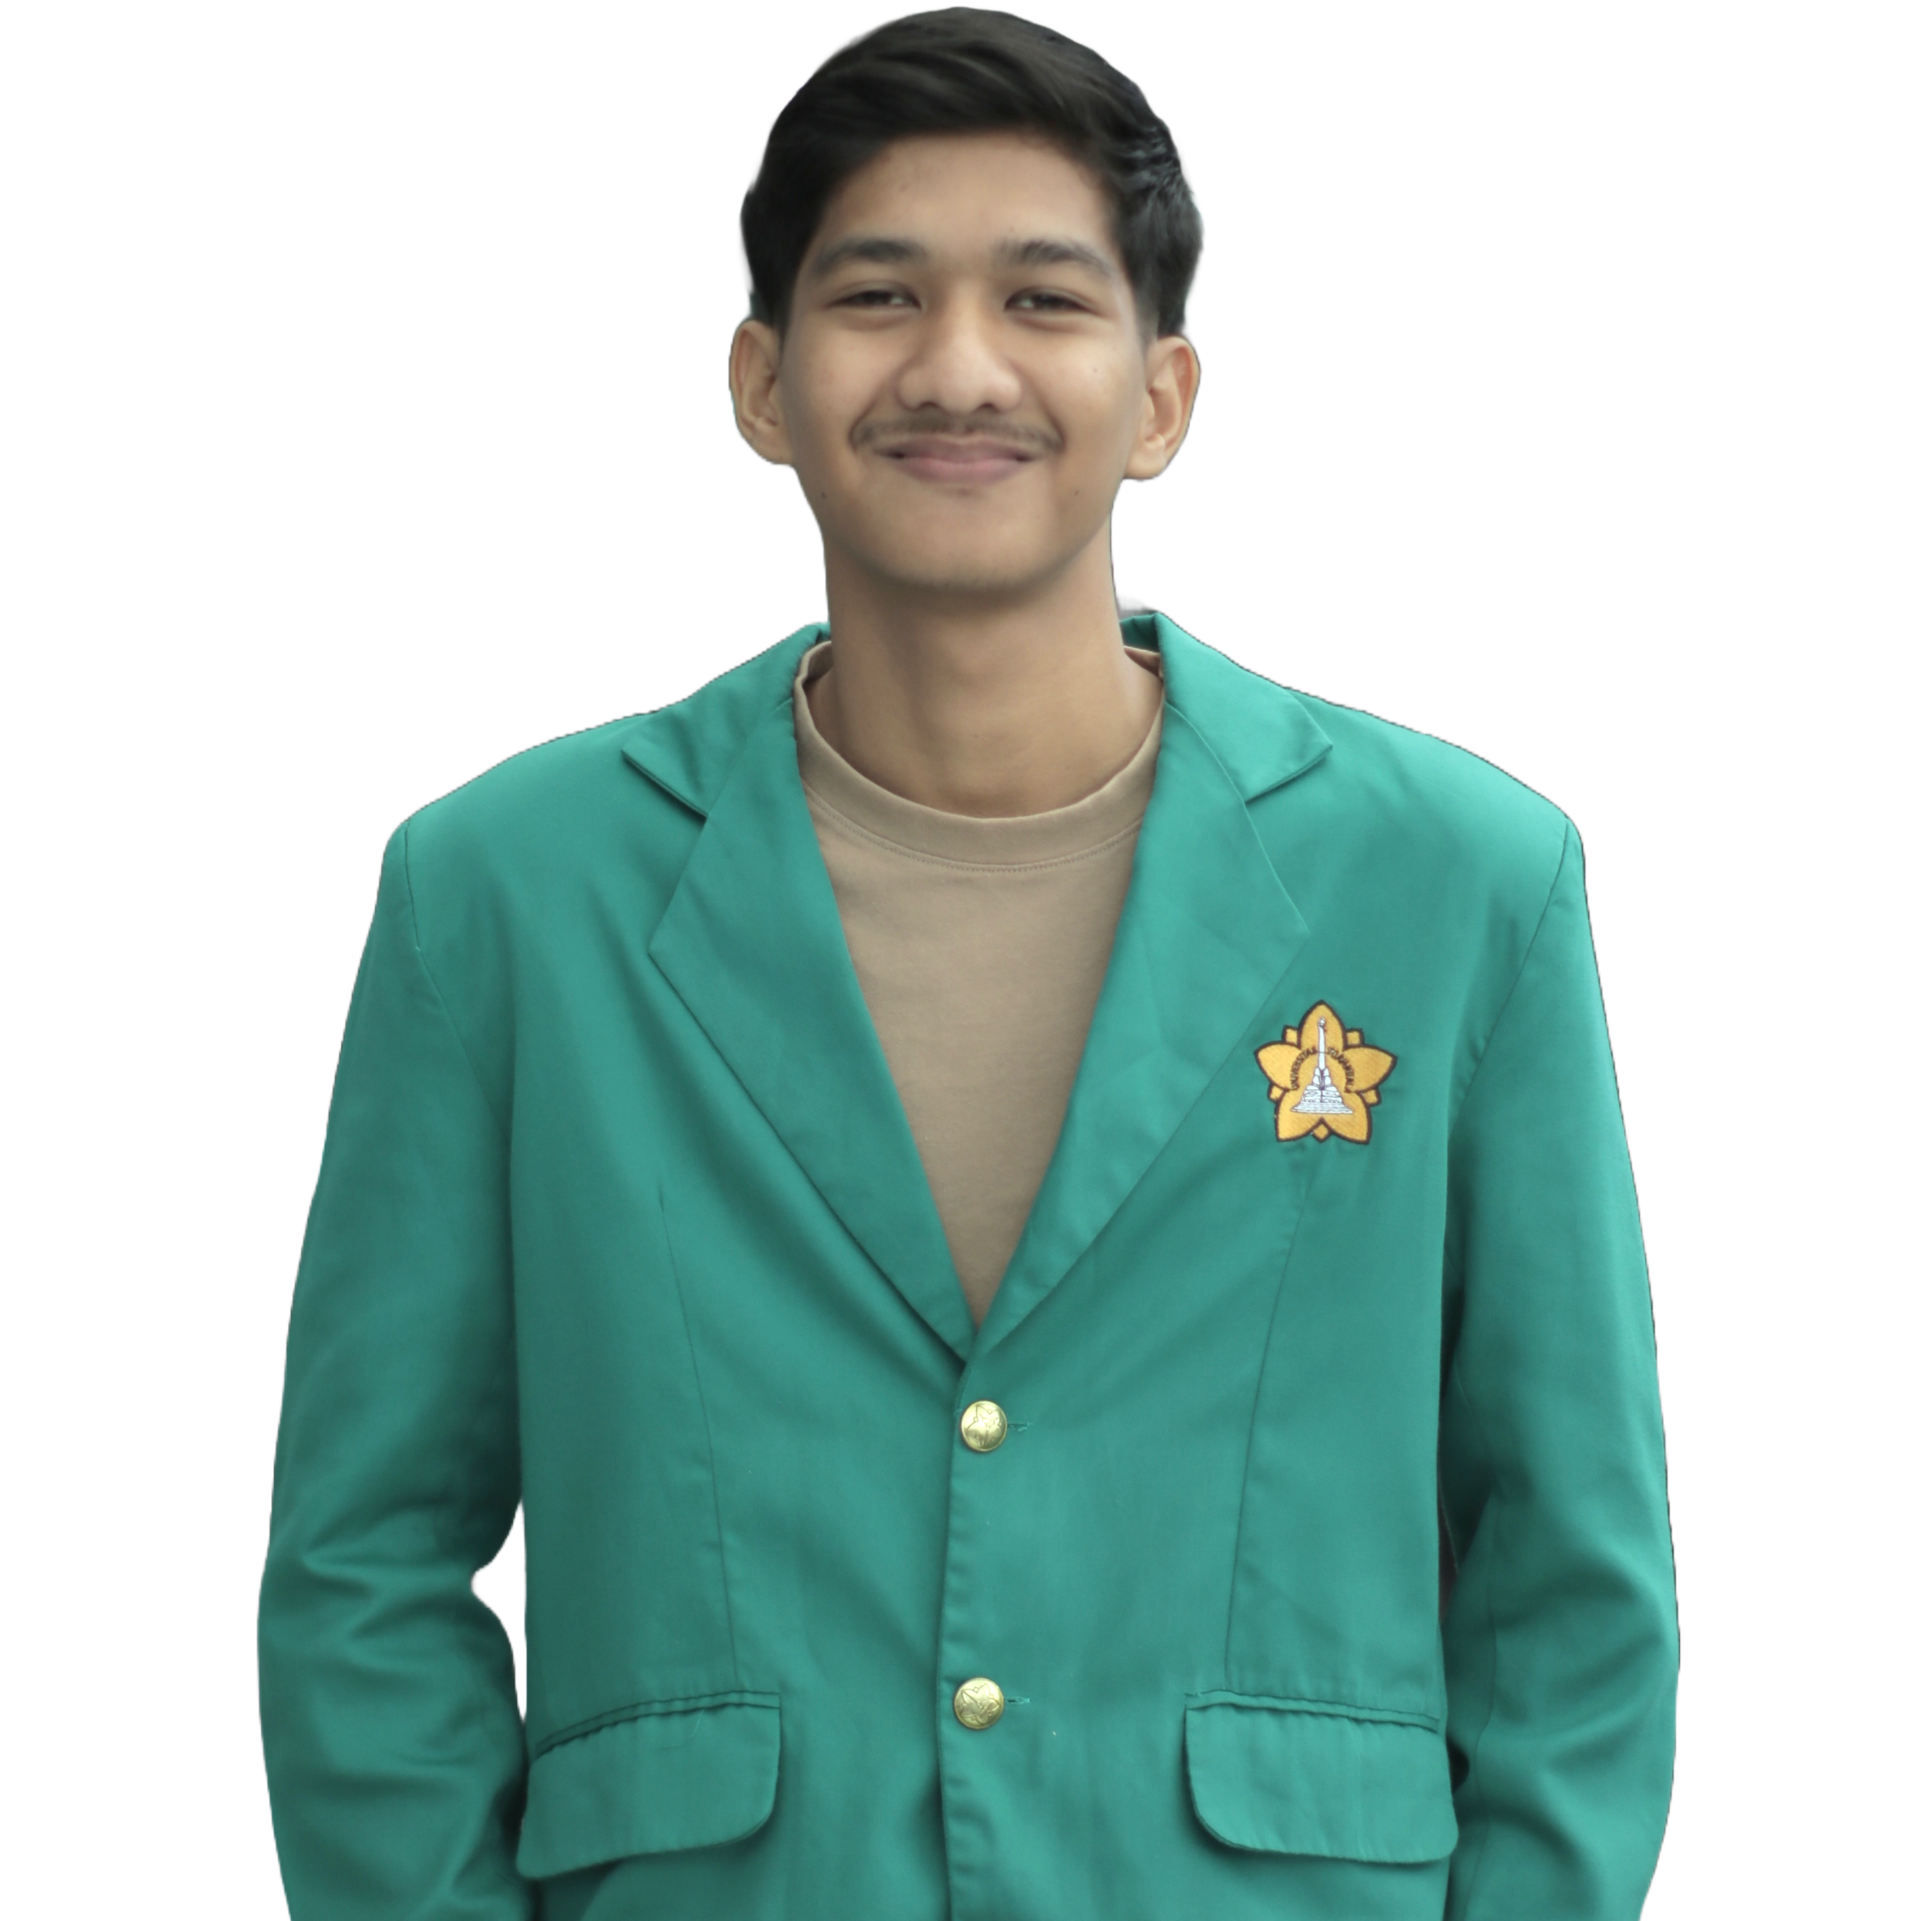
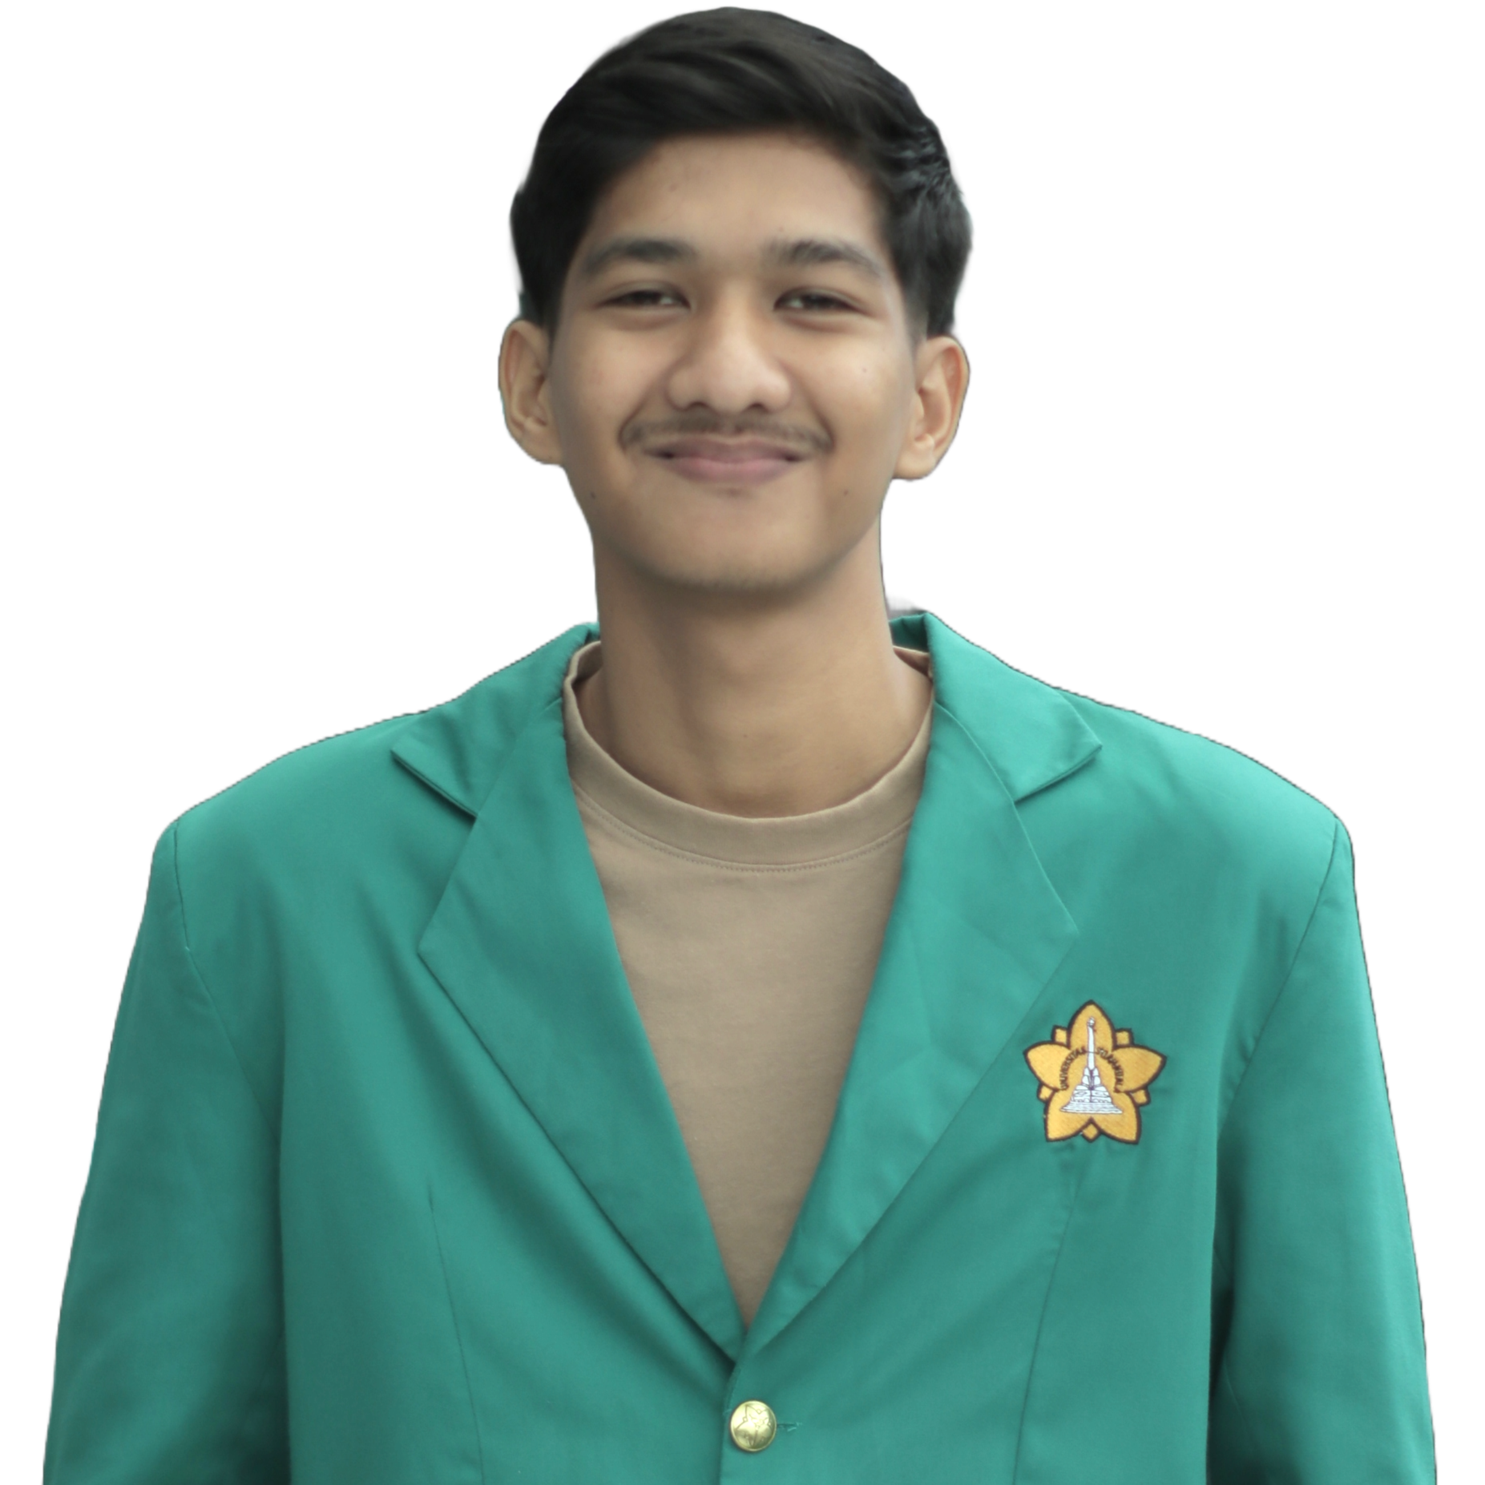
Update About page: add gallery images with validator info and team photos

diff --git a/src/app/about/page.tsx b/src/app/about/page.tsx
@@ -96,7 +96,7 @@ export default function AboutPage() {
                     <div className="text-center flex flex-col h-full">
                       <div className="relative w-full aspect-square mb-6 rounded-2xl overflow-hidden border-4 border-purple-400/30 group-hover:border-purple-400/60 transition-all">
                         <Image
-                          src="/assets/team/bintang.png"
+                          src="/assets/team/ahmad.png"
                           alt="Ahmad Syah Ramadhan"
                           fill
                           className="object-cover"
@@ -122,7 +122,7 @@ export default function AboutPage() {
                     <div className="text-center flex flex-col h-full">
                       <div className="relative w-full aspect-square mb-6 rounded-2xl overflow-hidden border-4 border-emerald-400/30 group-hover:border-emerald-400/60 transition-all">
                         <Image
-                          src="/assets/team/bintang.png"
+                          src="/assets/team/husna.png"
                           alt="Alhusna Hanifah"
                           fill
                           className="object-cover"
@@ -203,12 +203,12 @@ function GallerySection() {
   const [currentIndex, setCurrentIndex] = useState(0);
 
   const galleryImages = [
-    { src: '/assets/galeri/gambar2.JPEG', title: 'Tim Pengembang CIRVIA', description: 'Kolaborasi tim dalam mengembangkan platform' },
-    { src: '/assets/galeri/gambar2.JPEG', title: 'Workshop Pembelajaran', description: 'Sesi pelatihan penggunaan CIRVIA' },
-    { src: '/assets/galeri/gambar2.JPEG', title: 'Praktikum Virtual', description: 'Siswa menggunakan fitur computer vision' },
-    { src: '/assets/galeri/gambar2.JPEG', title: 'Presentasi Project', description: 'Demonstrasi fitur-fitur unggulan' },
-    { src: '/assets/galeri/gambar2.JPEG', title: 'Sesi Diskusi', description: 'Evaluasi dan pengembangan platform' },
-    { src: '/assets/galeri/gambar2.JPEG', title: 'Testing & Quality', description: 'Pengujian kualitas pembelajaran' },
+    { src: '/assets/galeri/foto bersama.jpg', title: 'Foto Bersama Siswa', description: 'Uji Coba Penerapan bersama Siswa SMA Negeri 5 Banda Aceh' },
+    { src: '/assets/galeri/validasi materi.jpg', title: 'Validasi Materi', description: 'Uji Validasi Materi bersama Ibu Dr. Susilawati, S.Pd., M.Ed' },
+    { src: '/assets/galeri/validasi media.jpg', title: 'Validasi Media', description: 'Uji Validasi Media bersama Ibu Andriani Putri, M.Sc' },
+    { src: '/assets/galeri/validasi praktisi.jpg', title: 'Validasi Praktisi Lapangan', description: 'Uji Validasi Praktisi Lapangan bersama Cut Mardiana, S.Pd' },
+    { src: '/assets/galeri/menulis LKPD.png', title: 'Proses Pembelajaran Siswa', description: 'Dokumentasi aktivitas siswa saat mengerjakan LKPD' },
+    { src: '/assets/galeri/Praktikum virtual computer vision.png', title: 'Praktikum Virtual', description: 'Siswa melakukan praktikum rangkaian listrik dengan teknologi Computer Vision' },
   ];
 
   const nextSlide = () => {
